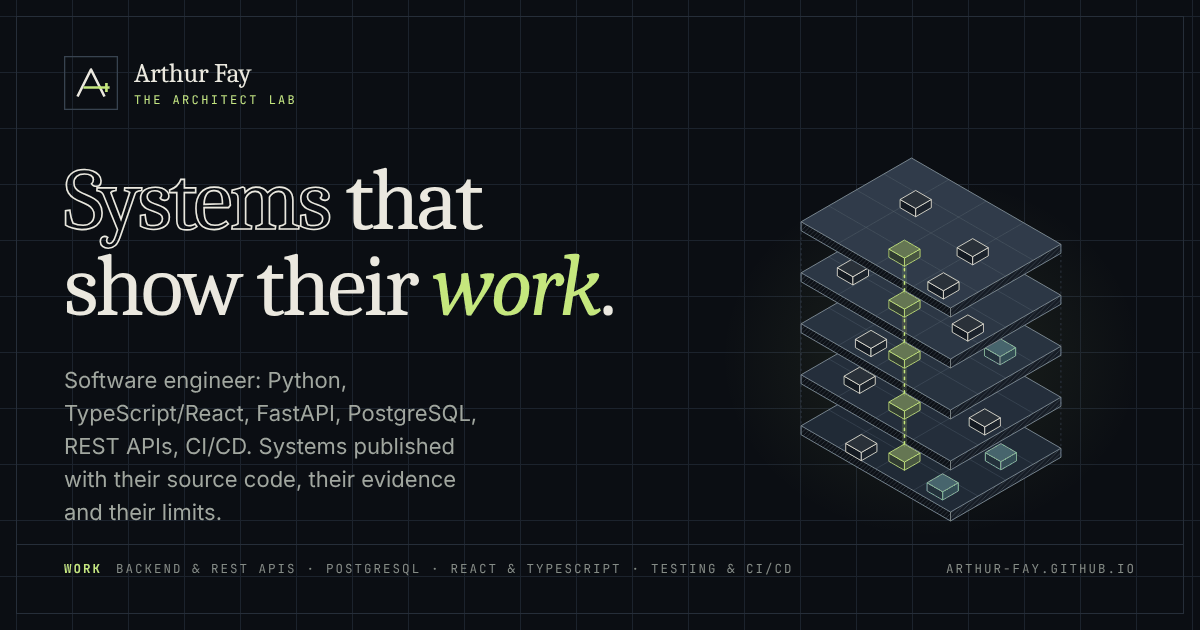
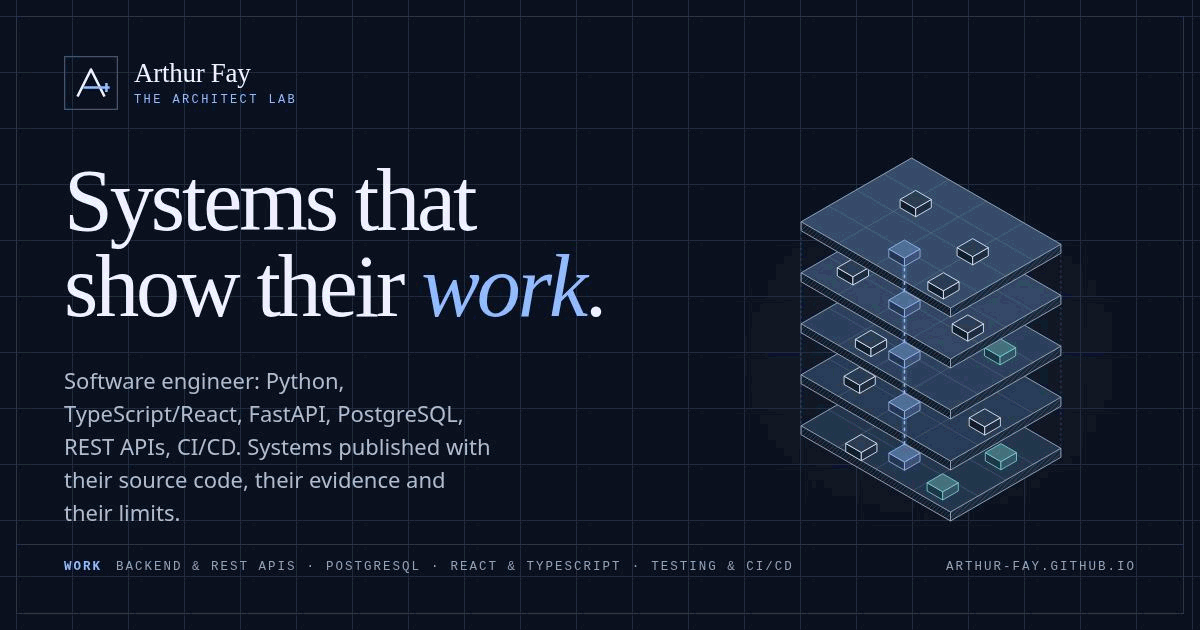
Refine portfolio with a professional blue palette and coordinated project colors (#22)

diff --git a/styles.css b/styles.css
@@ -6,11 +6,11 @@
    The first two rule blocks are design tokens read by the contrast tests
    (tests/unit/*contrast*.test.js); keep them as single flat blocks.
    ========================================================================== */
-:root{color-scheme:dark;--bg:#0b0e13;--bg2:#10141b;--surface:#131921;--surface2:#19202a;--text:#ebe8df;--muted:#a1a79f;--fine:#858c86;--line:#262e39;--line2:#38424f;--accent:#c5e77d;--accent-dark:#a9ca5f;--on-accent:#0b0e13;--cyan:#80c9d2;--warm:#e3b25c;--grid:#1c232d;--hatch:#2b3440;--plate:#202a36;--plate-hi:#303b4a;--plate-side:#0d1117;--plate-edge:#7f8c9c;--node-top:#2a3139;--node-l:#141a22;--node-r:#1c232c;--glow-alpha:.1;--shade-alpha:.5;--shadow:0 30px 80px rgba(0,0,0,.35);--font-display:"Iowan Old Style",Charter,"Bitstream Charter",Cambria,Georgia,"Times New Roman",serif;--font-body:ui-sans-serif,system-ui,-apple-system,"Segoe UI",Inter,Roboto,"Helvetica Neue",Arial,sans-serif;--font-mono:ui-monospace,"SF Mono",Menlo,Consolas,"JetBrains Mono","Liberation Mono","DejaVu Sans Mono",monospace;--header-h:72px;--container:1240px;--gutter:clamp(16px,5vw,64px);--ease:cubic-bezier(.22,.72,.18,1);--fast:.22s;--slow:.6s}
-html[data-theme="light"]{color-scheme:light;--bg:#f4f2ec;--bg2:#ece9e0;--surface:#fbfaf6;--surface2:#efede6;--text:#161a20;--muted:#4f5862;--fine:#5f6872;--line:#d9d5c9;--line2:#bdb8a8;--accent:#3a5c14;--accent-dark:#2c470e;--on-accent:#ffffff;--cyan:#1b7381;--warm:#9a6a12;--grid:#e3dfd3;--hatch:#cfcabb;--plate:#cfc8b6;--plate-hi:#e7e2d5;--plate-side:#b9b2a0;--plate-edge:#6b6556;--node-top:#fbfaf6;--node-l:#cbc6b8;--node-r:#e4e0d4;--glow-alpha:.05;--shade-alpha:.12;--shadow:0 24px 60px rgba(40,44,30,.12)}
+:root{color-scheme:dark;--bg:#0b1020;--bg2:#0e1729;--surface:#121d30;--surface2:#192840;--text:#edf3ff;--muted:#adbcd0;--fine:#90a2ba;--line:#27364e;--line2:#405574;--accent:#91baff;--accent-dark:#77a7f5;--on-accent:#0b1020;--cyan:#75d6d5;--warm:#f1be71;--violet:#c6afff;--grid:#1c2b42;--hatch:#33435c;--plate:#24364e;--plate-hi:#354d6b;--plate-side:#0f1929;--plate-edge:#9babc4;--node-top:#2a3c54;--node-l:#111c2d;--node-r:#1e2c42;--glow-alpha:.1;--shade-alpha:.5;--shadow:0 30px 80px rgba(0,0,0,.35);--font-display:"Iowan Old Style",Charter,"Bitstream Charter",Cambria,Georgia,"Times New Roman",serif;--font-body:ui-sans-serif,system-ui,-apple-system,"Segoe UI",Inter,Roboto,"Helvetica Neue",Arial,sans-serif;--font-mono:ui-monospace,"SF Mono",Menlo,Consolas,"JetBrains Mono","Liberation Mono","DejaVu Sans Mono",monospace;--header-h:72px;--container:1240px;--gutter:clamp(16px,5vw,64px);--ease:cubic-bezier(.22,.72,.18,1);--fast:.22s;--slow:.6s}
+html[data-theme="light"]{color-scheme:light;--bg:#f5f8fd;--bg2:#eaf0f8;--surface:#ffffff;--surface2:#edf2fa;--text:#13203a;--muted:#455671;--fine:#56647b;--line:#d8e0ec;--line2:#aab8cd;--accent:#234fc1;--accent-dark:#193e9e;--on-accent:#ffffff;--cyan:#116b76;--warm:#89580e;--violet:#7543ad;--grid:#e0e8f3;--hatch:#c4d0e1;--plate:#cbd5e3;--plate-hi:#e1e9f4;--plate-side:#aebdd2;--plate-edge:#596a82;--node-top:#ffffff;--node-l:#bccadd;--node-r:#dce5f1;--glow-alpha:.05;--shade-alpha:.12;--shadow:0 24px 60px rgba(24,48,88,.1)}
 
 /* Pages without the theme script (the 404 page) follow the system preference. */
-@media (prefers-color-scheme:light){html:not([data-theme]){color-scheme:light;--bg:#f4f2ec;--bg2:#ece9e0;--surface:#fbfaf6;--surface2:#efede6;--text:#161a20;--muted:#4f5862;--fine:#5f6872;--line:#d9d5c9;--line2:#bdb8a8;--accent:#3a5c14;--accent-dark:#2c470e;--on-accent:#ffffff;--cyan:#1b7381;--warm:#9a6a12;--grid:#e3dfd3;--hatch:#cfcabb;--plate:#cfc8b6;--plate-hi:#e7e2d5;--plate-side:#b9b2a0;--plate-edge:#6b6556;--node-top:#fbfaf6;--node-l:#cbc6b8;--node-r:#e4e0d4;--glow-alpha:.05;--shade-alpha:.12;--shadow:0 24px 60px rgba(40,44,30,.12)}}
+@media (prefers-color-scheme:light){html:not([data-theme]){color-scheme:light;--bg:#f5f8fd;--bg2:#eaf0f8;--surface:#ffffff;--surface2:#edf2fa;--text:#13203a;--muted:#455671;--fine:#56647b;--line:#d8e0ec;--line2:#aab8cd;--accent:#234fc1;--accent-dark:#193e9e;--on-accent:#ffffff;--cyan:#116b76;--warm:#89580e;--violet:#7543ad;--grid:#e0e8f3;--hatch:#c4d0e1;--plate:#cbd5e3;--plate-hi:#e1e9f4;--plate-side:#aebdd2;--plate-edge:#596a82;--node-top:#ffffff;--node-l:#bccadd;--node-r:#dce5f1;--glow-alpha:.05;--shade-alpha:.12;--shadow:0 24px 60px rgba(24,48,88,.1)}}
 
 /* --------------------------------------------------------------------------
    Base
@@ -70,8 +70,8 @@ em.ink,.hero h1 em,.section-heading h2 em,.case-study-main h2 em,.about-heading 
 .hiring-heading .section-index{margin:0 0 6px}
 .hiring-heading h3{font-family:var(--font-display);font-size:clamp(26px,3vw,36px);font-weight:400;line-height:1.2;margin:0;letter-spacing:-.02em}
 .hiring-heading>p{color:var(--muted);font-size:14px;max-width:40ch;margin:0}
-.role-paths{list-style:none;display:grid;grid-template-columns:repeat(2,minmax(0,1fr));gap:0 36px;padding:0;margin:0}
-.role-paths>li{display:grid;grid-template-columns:30px minmax(0,1fr);gap:12px;padding:20px 0;border-top:1px solid var(--line);min-width:0}
+.role-paths{list-style:none;display:grid;grid-template-columns:repeat(2,minmax(0,1fr));gap:18px;padding:0;margin:0}
+.role-paths>li{display:grid;grid-template-columns:30px minmax(0,1fr);gap:12px;padding:20px 18px;border:1px solid var(--line);border-top:2px solid var(--accent);background:color-mix(in srgb,var(--accent) 4%,var(--surface));min-width:0;border-radius:4px}
 .role-path-index{font-family:var(--font-mono);font-size:11px;color:var(--accent);padding-top:4px}
 .role-paths h4{font-size:16px;line-height:1.4;margin:0 0 8px;font-weight:650}
 .role-paths p{font-size:14px;line-height:1.65;color:var(--muted);margin:0 0 10px;max-width:56ch}
@@ -80,10 +80,24 @@ em.ink,.hero h1 em,.section-heading h2 em,.case-study-main h2 em,.about-heading 
 .role-links a:hover,.role-links a:focus-visible{ text-decoration-color:currentColor }
 .hiring-note{font-size:13px;line-height:1.7;color:var(--muted);margin:4px 0 0;max-width:100ch}
 .hiring-note a{color:var(--text);text-decoration:underline;text-underline-offset:3px}
-@media(max-width:700px){.hiring-heading{display:block}.hiring-heading>p{margin-top:12px}.role-paths{grid-template-columns:minmax(0,1fr)}.role-paths>li{padding:18px 0}.role-links{gap:0 16px}}
+@media(max-width:700px){.hiring-heading{display:block}.hiring-heading>p{margin-top:12px}.role-paths{grid-template-columns:minmax(0,1fr)}.role-paths>li{padding:18px 14px}.role-links{gap:0 16px}}
 .text-link span{font-weight:400}
 .quiet-link{color:var(--text)}
 .quiet-link span{color:var(--accent)}
+
+/* A named project keeps the same ink across its tab, architecture and plate.
+   Labels and numerals remain present, so colour is an additional cue. */
+#tab-commerce,#cut-commerce,#plate-commerce,.hero-index li:nth-child(2),.role-paths>li:nth-child(2){--accent:var(--violet)}
+#tab-pathfinding,#cut-pathfinding,#plate-pathfinding,.hero-index li:nth-child(3),.role-paths>li:nth-child(3){--accent:var(--cyan)}
+#tab-security,#cut-security,#plate-security,.hero-index li:nth-child(4),.role-paths>li:nth-child(4){--accent:var(--warm)}
+.hero-titleblock>div:nth-child(2){--accent:var(--cyan)}
+.hero-titleblock>div:nth-child(3){--accent:var(--violet)}
+.hero-titleblock>div:nth-child(4){--accent:var(--warm)}
+.button,.icon-button,.header-github{border-radius:4px}
+.header-github{background:color-mix(in srgb,var(--accent) 5%,var(--surface))}
+.hero-role-name{font-size:12px}
+.principle:nth-child(2){--accent:var(--cyan)}
+.principle:nth-child(3){--accent:var(--violet)}
 
 /* --------------------------------------------------------------------------
    Header and navigation (shared by the portfolio and both labs)
@@ -123,7 +137,7 @@ html[data-theme="light"] .theme-icon-sun{display:none}
 /* --------------------------------------------------------------------------
    Hero: typographic composition + animated isometric system section
    -------------------------------------------------------------------------- */
-.hero{position:relative;overflow:hidden}
+.hero{position:relative;overflow:hidden;background:radial-gradient(ellipse at 90% 15%,color-mix(in srgb,var(--accent) 10%,transparent),transparent 58%),radial-gradient(ellipse at 65% 100%,color-mix(in srgb,var(--cyan) 6%,transparent),transparent 55%)}
 .hero::before{content:"";position:absolute;inset:0;pointer-events:none;background-image:linear-gradient(var(--grid) 1px,transparent 1px),linear-gradient(90deg,var(--grid) 1px,transparent 1px);background-size:56px 56px;background-position:center top;-webkit-mask-image:radial-gradient(ellipse 60% 70% at 68% 40%,#000 10%,transparent 72%);mask-image:radial-gradient(ellipse 60% 70% at 68% 40%,#000 10%,transparent 72%)}
 .hero-inner{position:relative;display:grid;grid-template-columns:minmax(0,1.08fr) minmax(0,.92fr);gap:clamp(32px,4.4vw,72px);align-items:center;padding:clamp(44px,7vh,82px) 0 clamp(48px,7vh,84px);min-height:min(820px,calc(100svh - var(--header-h)))}
 .hero-copy{min-width:0}
@@ -137,7 +151,7 @@ html[data-theme="light"] .theme-icon-sun{display:none}
 .hero-role-specialty{color:var(--text);font-weight:550}
 .eyebrow-sep{color:var(--fine);font-weight:400}
 .hero h1{font-family:var(--font-display);font-weight:400;font-size:clamp(54px,6.7vw,96px);line-height:.99;letter-spacing:-.035em;margin:0 0 24px;text-wrap:balance}
-.hero h1 .outline{color:transparent;-webkit-text-stroke:1.5px var(--text);font-style:normal}
+.hero h1 .outline{color:var(--text);-webkit-text-stroke:0;font-style:normal}
 @supports not (-webkit-text-stroke:1px #000){.hero h1 .outline{color:var(--text)}}
 .hero-description{font-size:clamp(17px,1.3vw,18px);line-height:1.68;color:var(--muted);max-width:57ch;margin:0 0 28px}
 .hero-description strong{color:var(--text);font-weight:500}
@@ -265,7 +279,7 @@ html:not(.js) .cut-tabs{display:none}
 .cut-tab{display:grid;grid-template-columns:38px minmax(0,1fr);grid-template-rows:auto auto;column-gap:14px;row-gap:3px;align-items:baseline;text-align:left;padding:16px 18px 15px;border:1px solid var(--line);background:var(--surface);cursor:pointer;position:relative;color:var(--text);transition:border-color var(--fast),background var(--fast),transform var(--fast)}
 .cut-tab::before{content:"";position:absolute;left:-1px;top:-1px;bottom:-1px;width:3px;background:var(--accent);transform:scaleY(0);transform-origin:top;transition:transform var(--fast) var(--ease)}
 .cut-tab:hover{border-color:var(--line2);background:var(--surface2)}
-.cut-tab[aria-selected="true"]{border-color:var(--accent);background:var(--surface2)}
+.cut-tab[aria-selected="true"]{border-color:var(--accent);background:color-mix(in srgb,var(--accent) 9%,var(--surface))}
 .cut-tab[aria-selected="true"]::before{transform:scaleY(1)}
 .cut-tab-num{grid-row:1 / span 2;font-size:11px;font-weight:700;color:var(--fine);padding-top:3px}
 .cut-tab[aria-selected="true"] .cut-tab-num{color:var(--accent)}
@@ -274,7 +288,7 @@ html:not(.js) .cut-tabs{display:none}
 .cut-stage{position:relative;background:var(--surface);min-width:0}
 .cut-panel{display:block}
 html.js .cut-panel:not(.is-active){display:none}
-.cut-head{display:grid;grid-template-columns:minmax(0,1fr) auto;gap:16px 24px;align-items:end;padding:22px 26px 20px;border-bottom:1px solid var(--line)}
+.cut-head{background:color-mix(in srgb,var(--accent) 5%,var(--surface));display:grid;grid-template-columns:minmax(0,1fr) auto;gap:16px 24px;align-items:end;padding:22px 26px 20px;border-bottom:1px solid var(--line)}
 .cut-head h3{font-family:var(--font-display);font-weight:400;font-size:clamp(26px,2.4vw,34px);letter-spacing:-.02em;line-height:1.05;margin:0}
 .cut-head h3 small{display:block;font-family:var(--font-body);font-size:14px;color:var(--muted);letter-spacing:0;margin-top:8px}
 .cut-meta{display:grid;grid-template-columns:max-content max-content;justify-content:end;gap:4px 18px;margin:0;font-family:var(--font-mono);font-size:11px;letter-spacing:.12em;text-transform:uppercase;color:var(--fine);text-align:right}
@@ -317,10 +331,10 @@ html:not(.js) .cut-panel+.cut-panel{margin-top:28px;border-top:1px solid var(--l
 .filter-button.is-active{background:var(--surface2);border-color:var(--line2);color:var(--text)}
 .filter-count{color:var(--accent);margin-left:6px}
 .project-list{display:grid;gap:28px}
-.project{position:relative;border:1px solid var(--line);background:var(--surface);transition:border-color var(--fast)}
-.project:hover{border-color:var(--line2)}
+.project{position:relative;border:1px solid var(--line);border-top:3px solid var(--accent);border-radius:5px;overflow:clip;background:var(--surface);transition:border-color var(--fast),box-shadow var(--fast)}
+.project:hover{border-color:var(--accent);box-shadow:0 12px 36px color-mix(in srgb,var(--accent) 6%,transparent)}
 .project[hidden]{display:none}
-.plate-head{display:flex;flex-wrap:wrap;justify-content:space-between;align-items:center;gap:8px 20px;padding:13px 26px;border-bottom:1px solid var(--line);font-size:11px;font-weight:700;color:var(--muted)}
+.plate-head{background:color-mix(in srgb,var(--accent) 6%,var(--surface));display:flex;flex-wrap:wrap;justify-content:space-between;align-items:center;gap:8px 20px;padding:13px 26px;border-bottom:1px solid var(--line);font-size:11px;font-weight:700;color:var(--muted)}
 .plate-head .project-num{color:var(--accent)}
 .plate-head .project-slash{color:var(--fine);margin:0 6px;font-weight:400}
 .plate-head .project-label{color:var(--fine);font-weight:600}
@@ -346,7 +360,7 @@ html:not(.js) .cut-panel+.cut-panel{margin-top:28px;border-top:1px solid var(--l
 .plate-figure figcaption{font-size:12.5px;line-height:1.6;color:var(--fine)}
 .plate-figure figcaption b{font-family:var(--font-mono);font-size:11px;letter-spacing:.14em;text-transform:uppercase;color:var(--accent);font-weight:700;margin-right:8px}
 .project-body{padding:30px 34px 28px;display:flex;flex-direction:column;min-width:0}
-.project h3{font-family:var(--font-display);font-weight:400;font-size:clamp(34px,3.4vw,46px);line-height:1.02;letter-spacing:-.03em;margin:0 0 18px}
+.project h3{font-family:var(--font-display);font-weight:500;font-size:clamp(34px,3.4vw,46px);line-height:1.02;letter-spacing:-.03em;margin:0 0 18px}
 .project-subtitle{display:block;font-family:var(--font-body);font-size:15px;letter-spacing:0;font-weight:500;color:var(--muted);margin-top:10px;line-height:1.4}
 .project-description{font-size:15.5px;line-height:1.7;color:var(--muted);margin:0 0 18px}
 .project-description strong{color:var(--text);font-weight:600}
@@ -462,7 +476,7 @@ html:not(.js) .cut-panel+.cut-panel{margin-top:28px;border-top:1px solid var(--l
    Method (specification sheet)
    -------------------------------------------------------------------------- */
 .principles-grid{display:grid;grid-template-columns:repeat(3,minmax(0,1fr));gap:18px}
-.principle{position:relative;background:var(--surface);border:1px solid var(--line);padding:26px 28px 32px;min-height:300px;display:flex;flex-direction:column;transition:border-color var(--fast),transform var(--slow) var(--ease)}
+.principle{position:relative;background:var(--surface);border:1px solid var(--line);border-top:2px solid var(--accent);padding:26px 28px 32px;min-height:300px;display:flex;flex-direction:column;transition:border-color var(--fast),transform var(--slow) var(--ease)}
 .principle:hover{border-color:var(--line2)}
 .principle-top{font-size:11px;font-weight:700;color:var(--fine)}
 .principle-symbol{width:72px;height:72px;margin:22px 0 24px;color:var(--accent)}
@@ -496,7 +510,7 @@ html:not(.js) .cut-panel+.cut-panel{margin-top:28px;border-top:1px solid var(--l
    Contact (title block)
    -------------------------------------------------------------------------- */
 .contact-section{padding:clamp(64px,9vh,104px) 0}
-.contact-card{position:relative;background:var(--accent);color:var(--on-accent);padding:clamp(28px,4vw,52px);display:grid;grid-template-columns:minmax(0,1.1fr) minmax(0,.9fr);gap:32px clamp(32px,5vw,72px);overflow:hidden}
+.contact-card{border-radius:6px;position:relative;background:var(--accent);color:var(--on-accent);padding:clamp(28px,4vw,52px);display:grid;grid-template-columns:minmax(0,1.1fr) minmax(0,.9fr);gap:32px clamp(32px,5vw,72px);overflow:hidden}
 .contact-card::after{content:"";position:absolute;inset:0;pointer-events:none;background-image:repeating-linear-gradient(-45deg,transparent 0 9px,color-mix(in srgb,var(--on-accent) 7%,transparent) 9px 10px);-webkit-mask-image:linear-gradient(110deg,transparent 60%,#000 100%);mask-image:linear-gradient(110deg,transparent 60%,#000 100%)}
 .contact-left,.contact-right{position:relative;z-index:1;min-width:0}
 .contact-top{display:flex;justify-content:space-between;gap:16px;margin-bottom:26px}

diff --git a/lab/pathfinding/lab.css b/lab/pathfinding/lab.css
@@ -1,6 +1,6 @@
 /* Interactive Robotics & Pathfinding Lab — page styles. Builds on /styles.css tokens. */
-:root{--lab-label:var(--muted);--cell-open:var(--surface);--cell-wall:#dfe5df;--cell-terrain:#756842;--cell-terrain-hatch:#9b8a53;--cell-frontier:color-mix(in srgb,var(--cyan) 26%,var(--surface));--cell-frontier-outline:color-mix(in srgb,var(--cyan) 55%,transparent);--cell-visited:color-mix(in srgb,var(--cyan) 58%,var(--surface));--cell-path:var(--accent);--cell-path-dot:#0b1017;--cell-start:var(--accent);--cell-start-ink:#0b1017;--cell-target:#eda06e;--cell-target-ink:#0b1017;--cell-focus-a:#ffffff;--cell-focus-b:#0b1017;--lab-max-h:min(64vh,620px)}
-html[data-theme="light"]{--cell-wall:#1b2531;--cell-terrain:#9a9176;--cell-terrain-hatch:#7d6d43;--cell-frontier:color-mix(in srgb,var(--cyan) 22%,var(--surface));--cell-frontier-outline:color-mix(in srgb,var(--cyan) 65%,transparent);--cell-visited:color-mix(in srgb,var(--cyan) 72%,var(--surface));--cell-path:#2b4a14;--cell-path-dot:#ffffff;--cell-start-ink:#ffffff;--cell-target:#b4542e;--cell-target-ink:#ffffff}
+:root{--lab-label:var(--muted);--cell-open:var(--surface);--cell-wall:#dfe5df;--cell-terrain:#756842;--cell-terrain-hatch:#9b8a53;--cell-frontier:color-mix(in srgb,var(--cyan) 26%,var(--surface));--cell-frontier-outline:color-mix(in srgb,var(--cyan) 55%,transparent);--cell-visited:color-mix(in srgb,var(--cyan) 48%,var(--surface));--cell-path:#bcd9ff;--cell-path-dot:#0b1017;--cell-start:var(--accent);--cell-start-ink:#0b1017;--cell-target:#eda06e;--cell-target-ink:#0b1017;--cell-focus-a:#ffffff;--cell-focus-b:#0b1017;--lab-max-h:min(64vh,620px)}
+html[data-theme="light"]{--cell-wall:#1b2531;--cell-terrain:#9a9176;--cell-terrain-hatch:#7d6d43;--cell-frontier:color-mix(in srgb,var(--cyan) 22%,var(--surface));--cell-frontier-outline:color-mix(in srgb,var(--cyan) 65%,transparent);--cell-visited:color-mix(in srgb,var(--cyan) 68%,var(--surface));--cell-path:#17346f;--cell-path-dot:#ffffff;--cell-start-ink:#ffffff;--cell-target:#b4542e;--cell-target-ink:#ffffff}
 .lab-hero{padding:70px 0 40px}.lab-hero>*{max-width:860px}.lab-hero h1{font-family:var(--font-display);font-weight:400;font-size:clamp(46px,5.4vw,84px);letter-spacing:-.05em;line-height:1.05;margin:0 0 26px}.lab-hero h1 em{font-style:italic;font-weight:400;color:var(--accent)}.lab-hero h1 .period{font-style:normal}.lab-hero .hero-description{max-width:680px}.lab-disclosure{max-width:680px;margin:0 0 30px}
 .lab-section{padding:40px 0 90px}.lab-layout{display:grid;grid-template-columns:minmax(0,1fr) 312px;gap:26px;align-items:start}.lab-stage{min-width:0}
 .lab-toolbar{display:flex;flex-wrap:wrap;justify-content:space-between;align-items:end;gap:14px 24px;margin-bottom:14px}

diff --git a/404.html b/404.html
@@ -1,1 +1,1 @@
-<!DOCTYPE html><html lang="en"><head><meta http-equiv="Content-Security-Policy" content="default-src 'none'; style-src 'self'; img-src 'self' data:; base-uri 'self'; form-action 'none'"><meta name="robots" content="noindex,follow"><meta charset="utf-8"><meta name="viewport" content="width=device-width,initial-scale=1"><title>Page not found — Arthur Fay</title><link rel="icon" type="image/svg+xml" href="/favicon.svg"><link rel="stylesheet" href="/styles.css?v=e1a061c8a162"><link rel="stylesheet" href="/404.css"></head><body><main class="container not-found"><p class="section-index">404 / NOT FOUND</p><h1>Nothing at this address<span class="not-found-accent">.</span></h1><p class="not-found-copy">The page may have moved. The main portfolio is still here.</p><a href="/" class="button button-primary">Return to portfolio ↗</a></main></body></html>
+<!DOCTYPE html><html lang="en"><head><meta http-equiv="Content-Security-Policy" content="default-src 'none'; style-src 'self'; img-src 'self' data:; base-uri 'self'; form-action 'none'"><meta name="robots" content="noindex,follow"><meta charset="utf-8"><meta name="viewport" content="width=device-width,initial-scale=1"><title>Page not found — Arthur Fay</title><link rel="icon" type="image/svg+xml" href="/favicon.svg"><link rel="stylesheet" href="/styles.css?v=0dc70684ac10"><link rel="stylesheet" href="/404.css"></head><body><main class="container not-found"><p class="section-index">404 / NOT FOUND</p><h1>Nothing at this address<span class="not-found-accent">.</span></h1><p class="not-found-copy">The page may have moved. The main portfolio is still here.</p><a href="/" class="button button-primary">Return to portfolio ↗</a></main></body></html>

diff --git a/lab/ecommerce/index.html b/lab/ecommerce/index.html
@@ -3,7 +3,7 @@
 <head>
   <meta charset="UTF-8" />
   <meta name="viewport" content="width=device-width, initial-scale=1" />
-  <meta name="theme-color" content="#0b0e13" />
+  <meta name="theme-color" content="#0b1020" />
   <meta http-equiv="Content-Security-Policy" content="default-src 'none'; script-src 'self'; style-src 'self'; img-src 'self' data:; font-src 'none'; base-uri 'self'; form-action 'none'" />
   <meta name="description" content="E-Commerce Executive Analytics Lab by Arthur Fay: the six published KPIs of the original Power BI project with the DAX definitions its README publishes, a comparison of its documented leading categories, a hypothetical what-if simulator, and an interactive walkthrough of the dimensional model, the measures and the report wiring behind the executive dashboard." />
   <meta name="author" content="Arthur Fay" />
@@ -14,9 +14,9 @@
   <meta name="twitter:card" content="summary" />
   <link rel="canonical" href="https://arthur-fay.github.io/lab/ecommerce/" />
   <link rel="icon" type="image/svg+xml" href="/favicon.svg" />
-  <link rel="stylesheet" href="/styles.css?v=e1a061c8a162" />
+  <link rel="stylesheet" href="/styles.css?v=0dc70684ac10" />
   <link rel="stylesheet" href="/lab/ecommerce/lab.css" />
-  <script defer src="/script.js?v=fb965533491e"></script>
+  <script defer src="/script.js?v=06f508150797"></script>
   <script type="module" src="/lab/ecommerce/app.js"></script>
   <title>E-Commerce Executive Analytics Lab — Arthur Fay</title>
 </head>

diff --git a/lab/security-events/index.html b/lab/security-events/index.html
@@ -3,7 +3,7 @@
 <head>
   <meta charset="UTF-8" />
   <meta name="viewport" content="width=device-width, initial-scale=1" />
-  <meta name="theme-color" content="#0b0e13" />
+  <meta name="theme-color" content="#0b1020" />
   <meta http-equiv="Content-Security-Policy" content="default-src 'none'; script-src 'self'; style-src 'self'; img-src 'self' data:; font-src 'none'; base-uri 'self'; form-action 'none'" />
   <meta name="description" content="Security Event Detection & Investigation Lab by Arthur Fay: a defensive, browser-only simulator that generates clearly labelled synthetic authentication events, runs three explainable detection rules with configurable thresholds, replays the timeline, and scores the rules against synthetic ground truth." />
   <meta name="author" content="Arthur Fay" />
@@ -14,9 +14,9 @@
   <meta name="twitter:card" content="summary" />
   <link rel="canonical" href="https://arthur-fay.github.io/lab/security-events/" />
   <link rel="icon" type="image/svg+xml" href="/favicon.svg" />
-  <link rel="stylesheet" href="/styles.css?v=e1a061c8a162" />
+  <link rel="stylesheet" href="/styles.css?v=0dc70684ac10" />
   <link rel="stylesheet" href="/lab/security-events/lab.css" />
-  <script defer src="/script.js?v=fb965533491e"></script>
+  <script defer src="/script.js?v=06f508150797"></script>
   <script type="module" src="/lab/security-events/app.js"></script>
   <title>Security Event Detection & Investigation Lab — Arthur Fay</title>
 </head>

diff --git a/lab/pathfinding/index.html b/lab/pathfinding/index.html
@@ -3,7 +3,7 @@
 <head>
   <meta charset="UTF-8" />
   <meta name="viewport" content="width=device-width, initial-scale=1" />
-  <meta name="theme-color" content="#0b0e13" />
+  <meta name="theme-color" content="#0b1020" />
   <meta http-equiv="Content-Security-Policy" content="default-src 'none'; script-src 'self'; style-src 'self'; img-src 'self' data:; font-src 'none'; base-uri 'self'; form-action 'none'" />
   <meta name="description" content="Interactive Robotics & Pathfinding Lab by Arthur Fay: draw obstacles and weighted terrain on a grid, then run and compare breadth-first search, Dijkstra's algorithm and A* with measured results, step controls and deterministic mazes." />
   <meta name="author" content="Arthur Fay" />
@@ -14,9 +14,9 @@
   <meta name="twitter:card" content="summary" />
   <link rel="canonical" href="https://arthur-fay.github.io/lab/pathfinding/" />
   <link rel="icon" type="image/svg+xml" href="/favicon.svg" />
-  <link rel="stylesheet" href="/styles.css?v=e1a061c8a162" />
-  <link rel="stylesheet" href="/lab/pathfinding/lab.css" />
-  <script defer src="/script.js?v=fb965533491e"></script>
+  <link rel="stylesheet" href="/styles.css?v=0dc70684ac10" />
+  <link rel="stylesheet" href="/lab/pathfinding/lab.css?v=b6a23f68542c" />
+  <script defer src="/script.js?v=06f508150797"></script>
   <script type="module" src="/lab/pathfinding/app.js"></script>
   <title>Interactive Robotics & Pathfinding Lab — Arthur Fay</title>
 </head>

diff --git a/index.html b/index.html
@@ -3,7 +3,7 @@
 <head>
   <meta charset="UTF-8" />
   <meta name="viewport" content="width=device-width, initial-scale=1" />
-  <meta name="theme-color" content="#0b0e13" />
+  <meta name="theme-color" content="#0b1020" />
   <meta http-equiv="Content-Security-Policy" content="default-src 'none'; script-src 'self'; style-src 'self'; img-src 'self' data:; font-src 'none'; base-uri 'self'; form-action 'none'" />
   <meta name="description" content="Arthur Fay is a software engineer in New York working in Python, TypeScript/React, FastAPI, PostgreSQL, REST APIs and CI/CD. Explore a PostgreSQL inventory API with concurrency tests, the ATLAS forecasting API and React dashboard, and three interactive browser labs, with source code, tests and documented limits." />
   <meta name="author" content="Arthur Fay" />
@@ -22,8 +22,8 @@
   <meta name="twitter:image" content="https://arthur-fay.github.io/social-card.png" />
   <link rel="canonical" href="https://arthur-fay.github.io/" />
   <link rel="icon" type="image/svg+xml" href="/favicon.svg" />
-  <link rel="stylesheet" href="/styles.css?v=e1a061c8a162" />
-  <script defer src="/script.js?v=fb965533491e"></script>
+  <link rel="stylesheet" href="/styles.css?v=0dc70684ac10" />
+  <script defer src="/script.js?v=06f508150797"></script>
   <title>Arthur Fay — Software Engineer · The Architect Lab · Python, TypeScript/React, FastAPI &amp; PostgreSQL</title>
 </head>
 <body>

diff --git a/tests/browser/portfolio.test.js b/tests/browser/portfolio.test.js
@@ -854,10 +854,10 @@ describe('portfolio: navigation, theme and metadata', () => {
   it('switches themes, updates the browser chrome colour and remembers the choice', async () => {
     const { page, close } = await open('/', { colorScheme: 'dark' });
     try {
-      assert.equal(await page.locator('meta[name="theme-color"]').getAttribute('content'), '#0b0e13');
+      assert.equal(await page.locator('meta[name="theme-color"]').getAttribute('content'), '#0b1020');
       await page.locator('#theme-toggle').click();
       assert.equal(await page.getAttribute('html', 'data-theme'), 'light');
-      assert.equal(await page.locator('meta[name="theme-color"]').getAttribute('content'), '#f4f2ec');
+      assert.equal(await page.locator('meta[name="theme-color"]').getAttribute('content'), '#f5f8fd');
       assert.equal(await page.locator('#theme-toggle').getAttribute('aria-label'), 'Switch to dark theme');
       await page.reload({ waitUntil: 'load' });
       assert.equal(await page.getAttribute('html', 'data-theme'), 'light', 'the preference persists');

diff --git a/tests/unit/profile.test.js b/tests/unit/profile.test.js
@@ -234,6 +234,15 @@ for (const theme of ['dark', 'light']) {
       expect('title block notes (muted)', 'var(--muted)', sheet, 4.5);
       expect('title block link arrow (accent)', 'var(--accent)', sheet, 4.5);
     });
+    it('project inks and supporting copy meet AA on the tinted project and role surfaces', () => {
+      for (const ink of ['--accent', '--violet', '--cyan', '--warm']) {
+        for (const percentage of [4, 5, 6, 9]) {
+          const tinted = opaque(`color-mix(in srgb,var(${ink}) ${percentage}%,var(--surface))`, t, bg);
+          expect(`${ink} label on ${percentage}% tinted surface`, `var(${ink})`, tinted, 4.5);
+          expect(`supporting copy on ${ink} ${percentage}% tinted surface`, 'var(--muted)', tinted, 4.5);
+        }
+      }
+    });
     it('the contact card keeps its copy, role chips and outline button readable on the accent', () => {
       const accent = opaque('var(--accent)', t, bg);
       expect('contact copy', 'color-mix(in srgb,var(--on-accent) 85%,transparent)', accent, 4.5);

diff --git a/scripts/social-card.js b/scripts/social-card.js
@@ -38,7 +38,7 @@ body{width:1200px;height:630px;overflow:hidden;background:var(--bg);color:var(--
 .mark-name{font-family:var(--font-display);font-size:27px;letter-spacing:-.01em;line-height:1}
 .mark-sub{display:block;margin-top:7px;font-family:var(--font-mono);font-size:12px;letter-spacing:.2em;text-transform:uppercase;color:var(--accent)}
 h1{position:absolute;left:64px;top:158px;margin:0;font-family:var(--font-display);font-weight:400;font-size:88px;line-height:.98;letter-spacing:-.035em;color:var(--text)}
-h1 .outline{color:transparent;-webkit-text-stroke:1.6px var(--text)}
+h1 .outline{color:var(--text)}
 h1 em{font-style:italic;color:var(--accent)}
 h1 .period{font-style:normal;color:var(--text)}
 p.lead{position:absolute;left:64px;top:364px;margin:0;width:430px;font-size:22px;line-height:1.5;color:var(--muted)}

diff --git a/script.js b/script.js
@@ -25,7 +25,7 @@
       themeButton.setAttribute('title', label);
     }
     const meta = document.querySelector('meta[name="theme-color"]');
-    if (meta) meta.setAttribute('content', theme === 'dark' ? '#0b0e13' : '#f4f2ec');
+    if (meta) meta.setAttribute('content', theme === 'dark' ? '#0b1020' : '#f5f8fd');
   };
   setTheme(initialTheme);
   if (themeButton) {

diff --git a/scripts/version_shared_assets.py b/scripts/version_shared_assets.py
@@ -1,6 +1,6 @@
 """Give shared CSS/JS content-derived URLs so updated HTML bypasses old caches.
 
-Run after editing styles.css or script.js. The offline checker rejects stale
+Run after editing styles.css, script.js or the pathfinding stylesheet. The offline checker rejects stale
 versions, including the references in lab pages and the custom 404 page.
 """
 from pathlib import Path
@@ -14,14 +14,17 @@ PAGES = ("index.html", "404.html", "lab/pathfinding/index.html",
 
 def main() -> None:
     versions = {name: hashlib.sha256((ROOT / name).read_bytes()).hexdigest()[:12]
-                for name in ("styles.css", "script.js")}
+                for name in ("styles.css", "script.js", "lab/pathfinding/lab.css")}
     for page in PAGES:
         file = ROOT / page
         html = file.read_text(encoding="utf-8")
         for name, version in versions.items():
             pattern = rf'((?:href|src)="/){re.escape(name)}(?:\?v=[a-f0-9]{{12}})?(")'
             html, count = re.subn(pattern, lambda match: f'{match[1]}{name}?v={version}{match[2]}', html)
-            expected = 0 if page == "404.html" and name == "script.js" else 1
+            if name == "lab/pathfinding/lab.css":
+                expected = 1 if page == "lab/pathfinding/index.html" else 0
+            else:
+                expected = 0 if page == "404.html" and name == "script.js" else 1
             assert count == expected, f"{page}: expected {expected} reference(s) to {name}, found {count}"
         file.write_text(html, encoding="utf-8")
     print("Shared asset versions: " + ", ".join(f"{name}={value}" for name, value in versions.items()))
